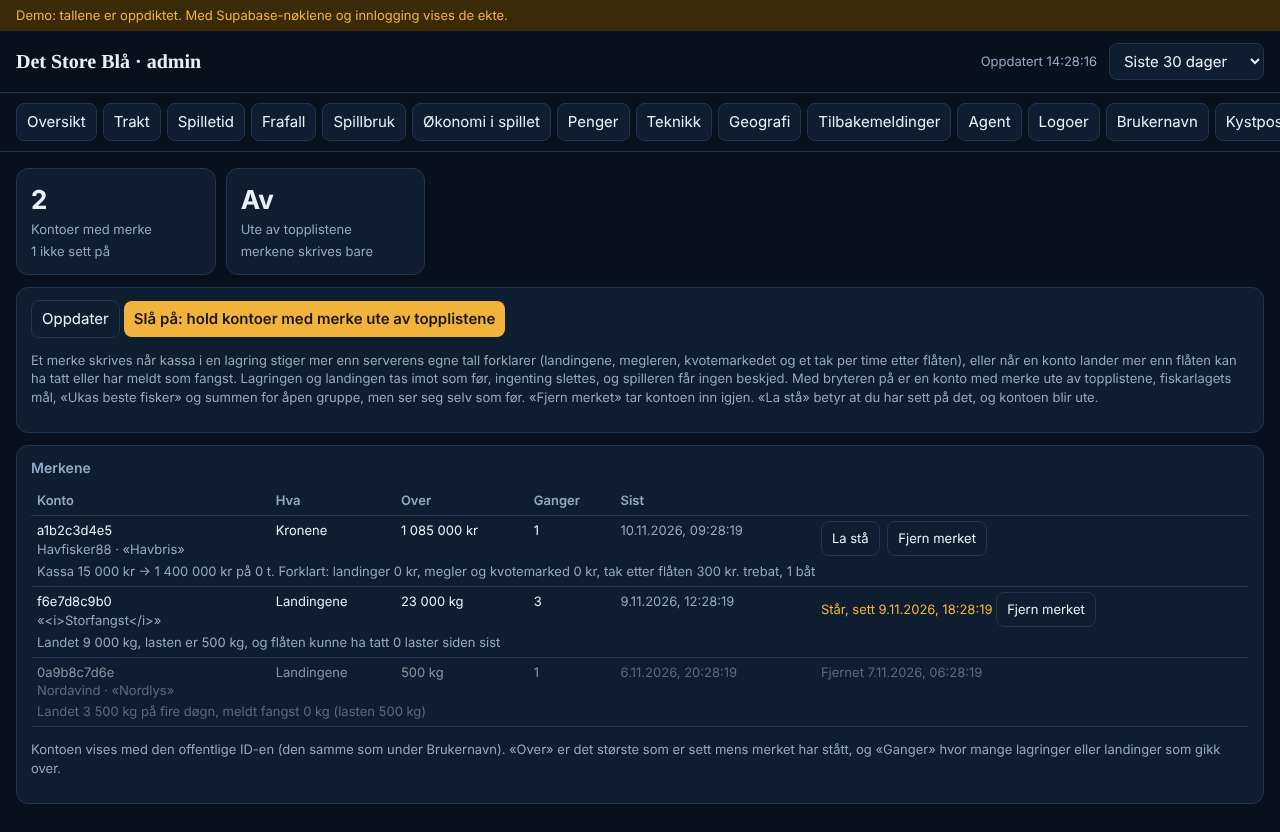
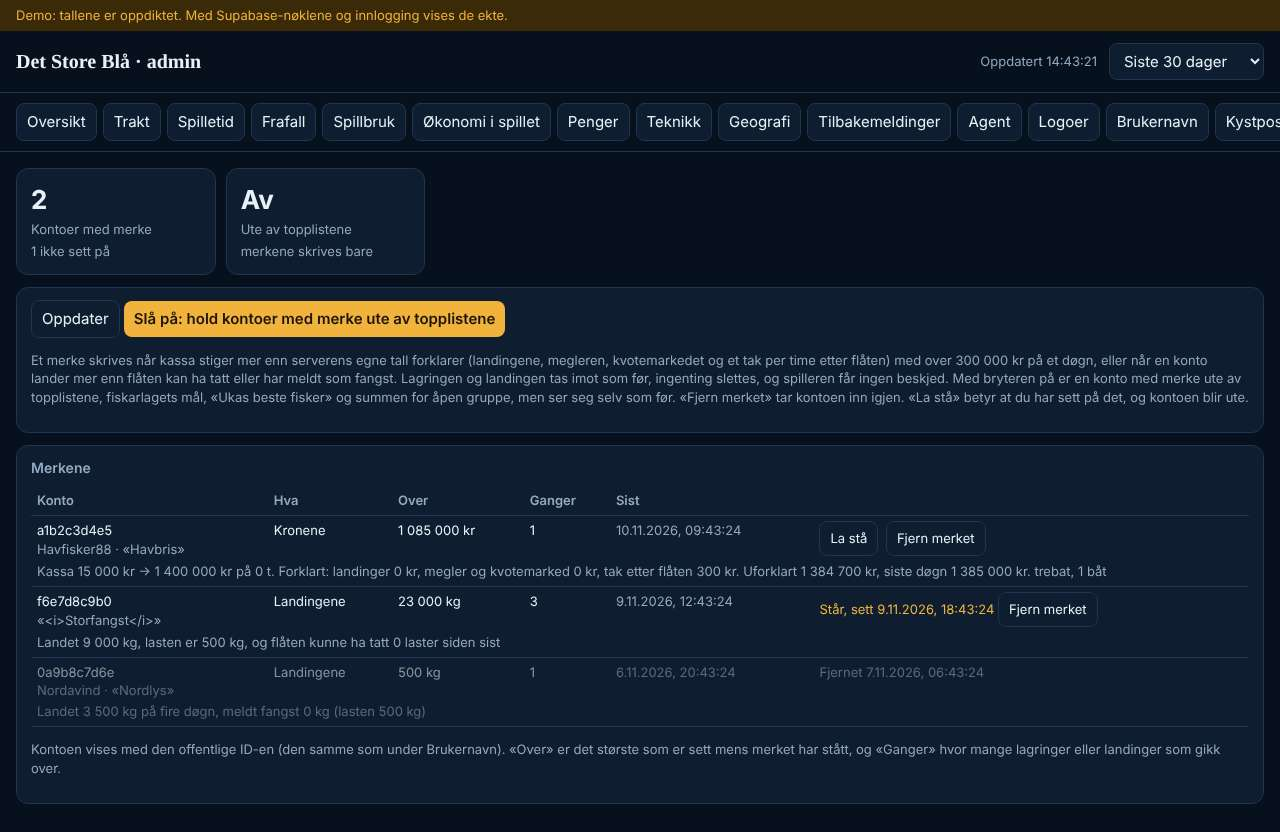
HS5: rettet etter gjennomgangen av koden (/code-review, nivå medium)
- Slakken på 300 000 kr er per døgn (cheat_cash, lekker 300 000 kr i døgnet), ikke per
  lagring, så den ikke kan brukes om igjen; kontoens første lagring sjekkes (mot 15 000 kr);
  en lagring uten kasse skjuler ikke økningen; kassa leses trygt (cheat_kr).
- Salgsfradraget bare når flåten har en båt mindre, ikke når båttypen bare byttes.
- Sjekken mot meldt fangst teller ikke artene spillet aldri melder fangst for
  (blåkveite, krabbe, snøkrabbe: cheat_sp.nocatch), og ikke det som ble landet før et
  merke sist ble fjernet; «Fjern merket» nullstiller bøtta eller de uforklarte kronene.
- En gjests åpne merker følger kontoen (trigger på players, ett om gangen), også et
  merke for kronene uten landing.
- Ukas push til en merket konto sier det kontoens egne lister sier (push_week_best).
- Topplistene leser bryteren én gang per kall; admin-lista har de åpne merkene først.
Ikke rettet: flåteverdien er fortsatt spillets ord (står i planen og backloggen).

sqltest 158 OK (én ny sjekk, og fire utvidet); de nye sett røde mot migreringen før
rettingen (4 FEIL). juksetabell 4 OK. admintest 10 OK. Målt på nytt mot databasen:
største uforklarte økning per døgn 41 048 kr (grensen 300 000).

Claude-Session: https://claude.ai/code/session_013BxXiDX5oLo5kXeQPREquf

diff --git a/src/admin/index.html b/src/admin/index.html
@@ -425,13 +425,13 @@ VIEW.navn = () => {
 let JK = null;
 function jkDemo(){ const t = h => new Date(Date.now() - h * 36e5).toISOString();
   return {on:false, open:2, rows:[
-    {id:3, who:'a1b2c3d4e5', name:'Havfisker88', boat:'Havbris', guest:false, kind:'cash', over:1085000, n:1, at:t(5), last:t(5), cleared:null, kept:null, data:{cash0:15000, cash1:1400000, hours:0.02, land:0, ledger:0, cap:300, sale:0, equity:0, type0:'trebat', type1:'trebat', fleet0:1, fleet1:1}},
+    {id:3, who:'a1b2c3d4e5', name:'Havfisker88', boat:'Havbris', guest:false, kind:'cash', over:1085000, n:1, at:t(5), last:t(5), cleared:null, kept:null, data:{cash0:15000, cash1:1400000, hours:0.02, land:0, ledger:0, cap:300, sale:0, equity:0, unexplained:1384700, day:1385000, first:false, type0:'trebat', type1:'trebat', fleet0:1, fleet1:1}},
     {id:2, who:'f6e7d8c9b0', name:'', boat:'<i>Storfangst</i>', guest:false, kind:'land', over:23000, n:3, at:t(30), last:t(26), cleared:null, kept:t(20), data:{why:'fleet', kg:9000, hold:500, had:0}},
     {id:1, who:'0a9b8c7d6e', name:'Nordavind', boat:'Nordlys', guest:false, kind:'land', over:500, n:1, at:t(90), last:t(90), cleared:t(80), kept:null, data:{why:'catch', landed4d:3500, caught4d:0, hold:500}}]}; }
 async function jkLoad(){ await null; try { JK = DEMO ? (JK || jkDemo()) : await rpc('admin_cheat_list', {lim:300}); } catch (e){ JK = {err:e.message}; } if (TAB === 'juks') render(); }
 function jkWhy(r){ const d = r.data || {}, kr = v => nf(+v || 0, 0) + ' kr', kg = v => nf(+v || 0, 0) + ' kg';
   if (r.kind === 'cash') return 'Kassa ' + kr(d.cash0) + ' → ' + kr(d.cash1) + ' på ' + nf(+d.hours || 0, 1) + ' t. Forklart: landinger ' + kr(d.land) + ', megler og kvotemarked ' + kr(d.ledger) + ', tak etter flåten ' + kr(d.cap) +
-    (+d.sale ? ', solgt båt ' + kr(d.sale) : '') + (+d.equity ? '. Større flåte teller ' + kr(d.equity) : '') + '. ' + esc(d.type0 || '') + (d.type1 !== d.type0 ? ' → ' + esc(d.type1 || '') : '') + ', ' + (+d.fleet1 || 1) + ' båt' + ((+d.fleet1 || 1) > 1 ? 'er' : '');
+    (+d.sale ? ', solgt båt ' + kr(d.sale) : '') + (+d.equity ? '. Større flåte teller ' + kr(d.equity) : '') + (d.unexplained != null ? '. Uforklart ' + kr(d.unexplained) + ', siste døgn ' + kr(d.day) : '') + (d.first ? '. Kontoens første lagring' : '') + '. ' + esc(d.type0 || '') + (d.type1 !== d.type0 ? ' → ' + esc(d.type1 || '') : '') + ', ' + (+d.fleet1 || 1) + ' båt' + ((+d.fleet1 || 1) > 1 ? 'er' : '');
   if (d.why === 'catch') return 'Landet ' + kg(d.landed4d) + ' på fire døgn, meldt fangst ' + kg(d.caught4d) + ' (lasten ' + kg(d.hold) + ')';
   return 'Landet ' + kg(d.kg) + ', lasten er ' + kg(d.hold) + ', og flåten kunne ha tatt ' + nf(+d.had || 0, 1) + ' laster siden sist'; }
 VIEW.juks = () => {
@@ -441,7 +441,7 @@ VIEW.juks = () => {
   return '<div class="grid">' + kpi('Kontoer med merke', nf(JK.open == null ? new Set(open.map(r => r.who)).size : JK.open, 0), nf(open.filter(r => !r.kept).length, 0) + ' ikke sett på') +
       kpi('Ute av topplistene', JK.on ? 'På' : 'Av', JK.on ? 'en konto med merke er ute' : 'merkene skrives bare') + '</div>' +
     '<div class="card"><button id="jkR">Oppdater</button> <button id="jkSw"' + (JK.on ? '' : ' class="p"') + '>' + (JK.on ? 'Slå av: la kontoer med merke stå i topplistene' : 'Slå på: hold kontoer med merke ute av topplistene') + '</button>' +
-      '<p class="note">Et merke skrives når kassa i en lagring stiger mer enn serverens egne tall forklarer (landingene, megleren, kvotemarkedet og et tak per time etter flåten), eller når en konto lander mer enn flåten kan ha tatt eller har meldt som fangst. Lagringen og landingen tas imot som før, ingenting slettes, og spilleren får ingen beskjed. Med bryteren på er en konto med merke ute av topplistene, fiskarlagets mål, «Ukas beste fisker» og summen for åpen gruppe, men ser seg selv som før. «Fjern merket» tar kontoen inn igjen. «La stå» betyr at du har sett på det, og kontoen blir ute.</p></div>' +
+      '<p class="note">Et merke skrives når kassa stiger mer enn serverens egne tall forklarer (landingene, megleren, kvotemarkedet og et tak per time etter flåten) med over 300 000 kr på et døgn, eller når en konto lander mer enn flåten kan ha tatt eller har meldt som fangst. Lagringen og landingen tas imot som før, ingenting slettes, og spilleren får ingen beskjed. Med bryteren på er en konto med merke ute av topplistene, fiskarlagets mål, «Ukas beste fisker» og summen for åpen gruppe, men ser seg selv som før. «Fjern merket» tar kontoen inn igjen. «La stå» betyr at du har sett på det, og kontoen blir ute.</p></div>' +
     (rows.length ? card('Merkene', '<table><tr><th>Konto</th><th>Hva</th><th>Over</th><th>Ganger</th><th>Sist</th><th></th></tr>' + rows.map(r => '<tr class="jkrow' + (r.cleared ? ' jkoff' : '') + '"><td>' + esc(r.who) +
         (r.name || r.boat ? '<br><span class="note">' + esc(r.name || '') + (r.name && r.boat ? ' · ' : '') + (r.boat ? '«' + esc(r.boat) + '»' : '') + (r.guest ? ' (gjest)' : '') + '</span>' : '') + '</td><td>' + (r.kind === 'cash' ? 'Kronene' : 'Landingene') + '</td><td>' +
         nf(+r.over || 0, 0) + (r.kind === 'cash' ? ' kr' : ' kg') + '</td><td>' + nf(+r.n || 1, 0) + '</td><td class="note">' + when(r.last) + '</td><td>' +

diff --git a/tests/sqltest.py b/tests/sqltest.py
@@ -1190,7 +1190,7 @@ def main():
         # kind, and with the switch on the marked account out of every leaderboard, the fiskarlag's goal, the week's push and the open
         # group's sum, while it still sees itself; «Fjern merket» takes it in again; only the admin with aal2 reads and clears
         import hashlib
-        HS = {}; H = {k: {'sub': 'user_01HS' + k, 'role': 'authenticated'} for k in ('1', '2', '3', '4', '5', '6', '7')}
+        HS = {}; H = {k: {'sub': 'user_01HS' + k, 'role': 'authenticated'} for k in ('1', '2', '3', '4', '5', '6', '7', '8')}
         hid = lambda k: 'user_01HS' + k
         for k in H: sql("select public.tm_hello('{}')", H[k], 'authenticated')
         hsave = lambda k, cash, typ='trebat', fleet=1: json.loads(sql("select public.save_put4('x', now(), 100, null, true, '{\"cash\":%d,\"type\":\"%s\",\"fleet\":%d}', 'devH', 'H', false)" % (cash, typ, fleet), H[k], 'authenticated'))
@@ -1223,9 +1223,22 @@ def main():
         hland('6', 3010, 'hs5ekte', 100, 'Fangst6', 'none', '', ''); hland('7', 3010, 'hs5ekte', 100, 'Fangst7', 'none', '', '')
         HS['catch'] = flags('6'); HS['catchOk'] = flags('7')
         # a guest's mark goes with the landings to the account
-        sql("insert into public.players (id) values ('hs5_g'), ('hs5_acc') on conflict do nothing; insert into public.landings (player_id, gh, y, port, sp, acc, kg, kgq) values ('hs5_g', 1, 2027, 'x', 'torsk', 'none', 1, 0); select public.cheat_flag('hs5_g', 'land', 5, '{}')")
-        sql("update public.landings set player_id = 'hs5_acc' where player_id = 'hs5_g'"); HS['follow'] = sql("select string_agg(player_id, ',') from public.cheat_flags where player_id like 'hs5_%'")
-        sql("delete from public.players where id in ('hs5_g', 'hs5_acc')")
+        # a guest's marks go to the account that takes the guest over (guest_merge deletes the guest's row as the account), also a mark
+        # for the kroner with no landing, and one the account has already does not stop the other
+        sql("insert into public.players (id, guest) values ('hs5_g', true), ('hs5_acc', false) on conflict do nothing; select public.cheat_flag('hs5_g', 'land', 5, '{}'); select public.cheat_flag('hs5_g', 'cash', 7, '{}'); select public.cheat_flag('hs5_acc', 'land', 1, '{}')")
+        sql("delete from public.players where id = 'hs5_g'", {'sub': 'hs5_acc', 'role': 'authenticated'}); HS['follow'] = sql("select string_agg(kind || ':' || over, ',' order by kind) from public.cheat_flags where player_id = 'hs5_acc'")
+        sql("delete from public.players where id = 'hs5_acc'")
+        # the slack is per day, not per save: three saves of 250 000 kr more each are marked at the second; an account's first save
+        # with a thousand million is marked; a save without a cash between two does not hide the rise
+        hsave('8', 15000); hsave('8', 265000); HS['step1'] = flags('8'); hsave('8', 515000); hsave('8', 765000); HS['step'] = flags('8')
+        sql("select public.tm_hello('{}')", {'sub': 'user_01HS9', 'role': 'authenticated'}, 'authenticated'); H['9'] = {'sub': 'user_01HS9', 'role': 'authenticated'}
+        hsave('9', 1000000000); HS['first'] = [f['kind'] for f in flags('9')]
+        hsave('5', 15000); sql("select public.save_put4('x', now(), 100, null, true, '{\"day\":5}', 'devH', 'H', false)", H['5'], 'authenticated'); hsave('5', 2000000); HS['nocash'] = [f['kind'] for f in flags('5')]
+        sql("delete from public.cheat_flags where player_id = '%s'" % hid('5'))
+        # crab is never reported as catch, so crab landed is not held against the catch
+        for i in range(7): sql("""select public.land_put(%d, 2027, 'hs5ekte', 'none', '[{"sp":"krabbe","kg":500,"kgq":0}]', 'Krabbe')""" % (3000 + i), H['8'], 'authenticated')
+        sql("update public.landings set at = now() - interval '2 hours' where player_id = '%s'; update public.cheat_bucket set at = now() - interval '2 hours' where player_id = '%s'" % (hid('8'), hid('8')))
+        sql("""select public.land_put(3010, 2027, 'hs5ekte', 'none', '[{"sp":"krabbe","kg":100,"kgq":0}]', 'Krabbe')""", H['8'], 'authenticated'); HS['crab'] = flags('8', 'land')
         # the switch off: the mark is only written, the marked account is in every list
         sql("select public.lag_join('hs5lag')", H['3'], 'authenticated'); sql("select public.lag_join('hs5lag')", H['4'], 'authenticated')
         sql("select public.push_sub('https://fcm.googleapis.com/fcm/send/hs5', 'BPkeyH', 'authkeyH', 'no')", H['5'], 'authenticated')
@@ -1238,7 +1251,7 @@ def main():
             pw = sql("select coalesce(string_agg(body, ' | '), '') from public.push_queue where tag = 'top-week' and player_id = '%s'" % hid(who))
             return {'top': 'JuksA' in [r['boat'] for r in wt['rows']], 'topMine': (wt.get('mine') or {}).get('kg'), 'bygd': 'hs5juks' in [r['port'] for r in bt.get('rows') or []],
                     'bygdMine': (bt.get('mine') or {}).get('port'), 'ev': 'JuksA' in [r['boat'] for r in et['rows']], 'evMine': (et.get('mine') or {}).get('kg'), 'evKg': et['kg'],
-                    'open': ag['open'], 'push': 'JuksA' in pw, 'pushMe': 'Du leverte 27,0 t' in pw}
+                    'open': ag['open'], 'push': 'JuksA' in pw, 'pushMe': 'Du leverte 27,0 t, plass 1' in pw and 'er «JuksA»' in pw}
         def lag(who):
             g = json.loads(sql("select public.lag_get(20)", H[who], 'authenticated')); return {'kg': g['kg'], 'hit': g['hit'], 'm': sorted(m['kg'] for m in g['members'])}
         HS['off'] = lists('5'); HS['cfgPl'] = sql("select public.admin_cfg_set('cheat_on', 'true')", H['1'], 'authenticated', expect_err=True)[0]
@@ -1259,6 +1272,7 @@ def main():
         HS['keep'] = sql("select public.admin_cheat_keep(%d)" % mine[0]['id'], AD2, 'authenticated') if mine else None; HS['kept'] = lists('5')['top']
         HS['clear'] = sql("select public.admin_cheat_clear(%d)" % mine[0]['id'], AD2, 'authenticated') if mine else None
         HS['cleared'] = lists('5'); HS['lagCleared'] = lag('4')
+        hland('3', 3373, 'hs5juks', 10, 'JuksA', 'none', '', ''); HS['again'] = [f['open'] for f in flags('3')]
         sql("select public.admin_cfg_set('cheat_on', 'false')", AD2, 'authenticated')
         w3 = 27000; ex = {'top': False, 'bygd': False, 'ev': False, 'push': False}
         print(ok(HS['cashPut'] is True and HS['cashKept'] == '1400000' and [(f['kind'], f['open']) for f in HS['cash']] == [('cash', True)] and 1000000 <= HS['cash'][0]['over'] <= 1100000),
@@ -1267,8 +1281,10 @@ def main():
         print(ok([(f['kind'], f['why']) for f in HS['land']] == [('land', 'fleet')] and HS['land'][0]['n'] == 3 and HS['landRows'] == '3/27000'),
               'HS5: landings above what the fleet can have taken get one mark, and the landings are taken', {k: HS[k] for k in ('land', 'landRows')})
         print(ok(HS['landAway'] == []), 'HS5: a landing after days away that the fleet could have taken gets no mark', HS['landAway'])
-        print(ok([(f['kind'], f['why'], f['over']) for f in HS['catch']] == [('land', 'catch', 500)] and HS['catchOk'] == [] and HS['follow'] == 'hs5_acc'),
-              "HS5: landings above the reported catch get a mark, with the catch reported they do not; a guest's mark follows the landings to the account", {k: HS[k] for k in ('catch', 'catchOk', 'follow')})
+        print(ok([(f['kind'], f['why'], f['over']) for f in HS['catch']] == [('land', 'catch', 500)] and HS['catchOk'] == [] and HS['crab'] == [] and HS['follow'] == 'cash:7,land:1'),
+              "HS5: landings above the reported catch get a mark, with the catch reported they do not; a guest's mark follows the landings to the account", {k: HS[k] for k in ('catch', 'catchOk', 'crab', 'follow')})
+        print(ok(HS['step1'] == [] and [f['kind'] for f in HS['step']] == ['cash'] and 449000 <= HS['step'][0]['over'] <= 450000 and HS['step'][0]['n'] == 2 and HS['first'] == ['cash'] and HS['nocash'] == ['cash']),
+              "HS5: the slack is per day and not per save, an account's first save is checked, and a save without a cash between two does not hide the rise", {k: HS[k] for k in ('step1', 'step', 'first', 'nocash')})
         print(ok(all(HS['off'][k] for k in ex) and not any(HS['on'][k] for k in ex) and HS['off']['open'] - HS['on']['open'] >= w3 and HS['off']['evKg'] - HS['on']['evKg'] == w3
                  and HS['cfgPl'] and HS['cfgBad']),
               'HS5: with the switch on a marked account is out of world_top, bygde_top, ev_top, the week\'s push and the open group\'s sum; off, it is in (only the admin turns it)', {k: HS[k] for k in ('off', 'on', 'cfgPl', 'cfgBad')})
@@ -1276,8 +1292,8 @@ def main():
                  and HS['lagOn'] == {'kg': 1000, 'hit': False, 'm': [0, 1000]} and HS['lagSelf'] == {'kg': 28000, 'hit': False, 'm': [1000, 27000]} and HS['lagHit'] == '0'),
               "HS5: the marked account sees itself as before, and the fiskarlag's goal is not reached on its kilos", {k: HS[k] for k in ('onSelf', 'lagOn', 'lagSelf', 'lagHit')})
         print(ok(HS['adm']['on'] is True and HS['adm']['n'] == 1 and HS['adm']['kind'] == ['land'] and not HS['adm']['raw'] and all(HS['admPl']) and HS['admAal1'] and HS['admAnon']
-                 and HS['keep'] == 't' and HS['kept'] is False and HS['clear'] == 't' and all(HS['cleared'][k] for k in ex) and HS['lagCleared'] == {'kg': 28000, 'hit': True, 'm': [1000, 27000]}),
-              'HS5: the admin (aal2) sees the marks by the public id, «La stå» keeps the account out, «Fjern merket» takes it in again; a player, aal1 and anon get nothing', {k: HS[k] for k in ('adm', 'admPl', 'admAal1', 'admAnon', 'keep', 'kept', 'clear', 'cleared', 'lagCleared')})
+                 and HS['keep'] == 't' and HS['kept'] is False and HS['clear'] == 't' and all(HS['cleared'][k] for k in ex) and HS['again'] == [False] and HS['lagCleared'] == {'kg': 28000, 'hit': True, 'm': [1000, 27000]}),
+              'HS5: the admin (aal2) sees the marks by the public id, «La stå» keeps the account out, «Fjern merket» takes it in again; a player, aal1 and anon get nothing', {k: HS[k] for k in ('adm', 'admPl', 'admAal1', 'admAnon', 'keep', 'kept', 'clear', 'cleared', 'again', 'lagCleared')})
         # the load of 5 000 players (plan 5b; KYST_LAST=5000): landings and catches for that many players, then what world_get costs
         NL = int(os.environ.get('KYST_LAST') or 0)
         if NL:

diff --git a/docs/systemer/skyen-og-felles-verden.md b/docs/systemer/skyen-og-felles-verden.md
@@ -183,22 +183,24 @@ Jonas 10.11.2026: «Spillere skal ikke kunne redigere sin egen lagring og gi seg
 
 - **Ingenting avvises og ingenting slettes.** Lagringen og landingen tas imot som før, og spilleren får ingen beskjed. Sjekkene ligger i egne blokker som aldri stopper en lagring eller en landing.
 - **Merket** (`cheat_flags`): ett åpent merke per konto og slag (`cash` eller `land`), med det største som er sett over grensen (`over`, kr eller kg), antallet (`n`) og tallene bak (`data`). «Fjern merket» setter `cleared_at`, og kontoen er inne igjen. «La stå» setter `kept_at` (sett på, kontoen blir ute).
-- **Kronene** sjekkes ved hver lagring av en trigger på `saves` (`saves_cheat_check`), så alle fire lagringsfunksjonene (`save_put` til `save_put4`) dekkes. Økningen i `summary.cash` regnes fra den høyeste kassa kontoen har hatt i en lagring (den forrige og de bevarte i `save_hist`), så en lagring tatt tilbake under Innstillinger aldri er en økning. Den kan ikke være større enn:
-  - 300 000 kr
+- **Kronene** sjekkes ved hver lagring av en trigger på `saves` (`saves_cheat_check`), så alle fire lagringsfunksjonene (`save_put` til `save_put4`) dekkes, også kontoens første lagring (da mot 15 000 kr, som i et nytt spill). Økningen i `summary.cash` regnes fra den høyeste kassa kontoen har hatt i en lagring (den forrige og de bevarte i `save_hist`), så en lagring tatt tilbake under Innstillinger aldri er en økning. En lagring uten kasse skjuler ikke økningen: kassa før den huskes (`cheat_cash.last`). Økningen holdes mot det serveren kan forklare:
   - landingene siden forrige lagring, til det dobbelte av den høyeste prisen arten kan få (`cheat_sp`)
   - utbetalingene fra megleren og kvotemarkedet (`broker_ledger`, de som ikke er hentet ennå, og de som er hentet siden forrige lagring)
   - 30 kr per kg last og ekte time (én last i timen), etter båttypen og antall båter i lagringen, høyst 21 døgn
-  - flåtens verdi når en båt er borte (solgt eller byttet inn)
+  - flåtens verdi når flåten har en båt mindre (solgt)
+  - Det som står igjen uforklart, legges sammen per konto (`cheat_cash.kr`) og lekker bort med 300 000 kr i døgnet. Over 300 000 kr får kontoen merke. Slakken er altså per døgn, ikke per lagring, så den kan ikke brukes om igjen ved å lagre mange ganger.
   - En flåte som har vokst, teller 5 % av prisen som penger som må ha vært der (det minste en kjøper selv legger inn, `core/03-simulation.js`), så en båt kjøpt med innskrevne penger mellom to lagringer også vises.
   - Spillets adminkonto (`players.game_admin`) har penger fra Admin-appen og sjekkes ikke for kroner.
 - **Landingene** sjekkes av `land_put` før radene legges inn (`cheat_land`):
   - **Flåten:** en bøtte i laster (`cheat_bucket`). Én last er den største lasten serveren kjenner for kontoen (`presence.vtype` og båttypen i lagringen, aldri under 500 kg) ganget med antall båter i lagringen; med flere båter også 8,5 kg per 1 000 kr flåteverdi når det er mer. Bøtta har 8 laster ved start og fylles med én last per ekte time (seks spilltimer), høyst 21 døgn. Da går tida som tas igjen etter dager borte, og havbåtene, gjennom. En landing over det som er i bøtta, får merke (`why: fleet`).
-  - **Fangsten:** landingene de siste fire døgnene (ikke den siste timen, fordi fangsten for en landing sendes rett etter den) kan ikke være mer enn tre ganger fangsten kontoen har meldt med `catch_put` i de døgnene, pluss seks laster (`why: catch`).
+  - **Fangsten:** landingene de siste fire døgnene (ikke den siste timen, fordi fangsten for en landing sendes rett etter den; ikke blåkveite, krabbe og snøkrabbe, som spillet aldri melder fangst for, `cheat_sp.nocatch`; ikke det som ble landet før et merke sist ble fjernet) kan ikke være mer enn tre ganger fangsten kontoen har meldt med `catch_put` i de døgnene, pluss seks laster (`why: catch`).
 - **Bryteren** `cheat_on` i `world_cfg` (av fra start). Av: merket skrives bare. På: en konto med åpent merke er ute av `world_top`, `bygde_top`, `ev_top`, fiskarlagets mål (`lag_get`: kiloene teller ikke i målet eller i lista de andre ser, og målet nås bare på de andres kilo), «Ukas beste fisker» (`push_week`) og summen for åpen gruppe og gruppenes fangst (`world_agg_get`). Kontoen ser seg selv som før i alle listene og i sin egen ukes-push.
-- **En gjests merke** følger landingene til kontoen ved registrering (triggeren `landings_cheat_follow`).
+- **«Fjern merket»** nullstiller også kontoens bøtte eller uforklarte kroner, så de samme landingene eller de samme kronene ikke skriver merket på nytt.
+- **Ukas push til en merket konto** sier det kontoens egne lister sier (`push_week_best` med kontoen selv regnet med), så meldingen ikke røper noe.
+- **En gjests åpne merker** følger med til kontoen ved registrering (triggeren `players_cheat_follow`: `guest_merge` sletter gjestens rad som kontoen).
 - **Admin:** fanen «Juks» (`admin_cheat_list`, `admin_cheat_clear`, `admin_cheat_keep`, bryteren med `admin_cfg_set`), bare `is_admin()` med aal2. Spillere har ingen rettigheter til tabellene eller funksjonene.
 - **Tabellene `cheat_vt` og `cheat_sp`** er kopier av lasten og prisen per båttype i `VESSELS` og den høyeste prisen per art i `SPECIES`. En type tabellen ikke har, teller som 500 kg. Enhetstesten `tests/unit/juksetabell.test.mjs` blir rød når en båt eller en pris i spillet ikke stemmer med den siste migreringen som fyller tabellene; da trengs en ny migrering med de nye radene.
-- **Det sjekken ikke gjør:** båttypen og antall båter er spillets ord (lagringen, `pos_put`, `tm_hello`), så den fanger den som skriver inn en million eller lander titalls tonn fra en trebåt, ikke den som jukser litt. Prisene i mottakene (`world_get`, `mkt`) holder ikke merkede kontoer ute.
+- **Det sjekken ikke gjør:** båttypen og antall båter er spillets ord (lagringen, `pos_put`, `tm_hello`), så den fanger den som skriver inn en million eller lander titalls tonn fra en trebåt, ikke den som jukser litt (under 300 000 kr uforklart i døgnet, eller under én last i timen med falsk fangst meldt). Et salg av en båt som ikke er den spilleren står i, kan gi et feil merke når flåteverdien ikke er meldt (uten samtykke til statistikk); da fjernes merket i admin. Prisene i mottakene (`world_get`, `mkt`) holder ikke merkede kontoer ute.
 - **Den gamle varslingen** (`saves_cash_check`, `cash_flags`, «Mistenkelige pengehopp» under Økonomi i admin) står som før.
 
 ## 4.24 Fartstid og «Mens du var borte» (07.10.2026)

diff --git a/docs/planer/haill-saldo.md b/docs/planer/haill-saldo.md
@@ -126,13 +126,16 @@ Migreringen `supabase/migrations/20261110150000_cheat_flags.sql`, fanen «Juks»
 - «Flåtens verdi» står ikke i lagringens `summary` (bare kassa, båttypen og antall båter), og lån og innbytte gjør at verdien ikke kan regnes rett. Sjekken regner derfor på kassa, og lar en flåte som har vokst telle 5 % av prisen.
 - Økningen regnes fra den høyeste kassa i de bevarte lagringene, så en lagring tatt tilbake ikke gir merke.
 - «Mottakets høyeste pris» er artens høyeste pris ganget med to. Serveren har ingen pris per mottak.
+- Slakken på 300 000 kr er per døgn og ikke per lagring (funnet i gjennomgangen av koden: ellers kunne den brukes om igjen for hver lagring), og kontoens første lagring sjekkes også.
+- Sjekken mot meldt fangst teller ikke blåkveite, krabbe og snøkrabbe, som spillet aldri melder fangst for (`takeStock`).
 - Spillets adminkonto sjekkes ikke for kroner (den har penger fra Admin-appen: ti hopp på 0,4 til 88,7 millioner i `cash_flags`).
 
 **Målingen (punkt 3), lesende spørringer mot databasen 10.11.2026:** 38 lagringer og 100 bevarte lagringer; 803 landingsrader i 120 kall fra 10 kontoer (5 registrerte, 5 gjester); 266 fangstrader fra de siste fire døgnene (3 kontoer). Alle kontoene har én båt (trebåt, snekke eller sjark).
 
 | Hva | Største ekte | Grensen | Merker |
 |---|---|---|---|
-| Økning i kassa mellom to bevarte lagringer (90 par, spillere) | 163 959 kr på 4,3 timer (sjark); 155 343 kr over den høyeste kassa før | 300 000 kr + landinger, megler, tak per time | 0 |
+| Økning i kassa mellom to bevarte lagringer (90 par, spillere) | 163 959 kr på 4,3 timer (sjark); 155 343 kr over den høyeste kassa før | forklart av landinger, megler og tak per time; resten under | 0 |
+| Uforklart økning per døgn (det som er igjen etter landingene og taket per time) | 41 048 kr (3 av 90 par hadde noe uforklart) | 300 000 kr per døgn | 0 |
 | Raskeste økning | 43 800 kr på 11 minutter (ny spiller, trebåt); 55 787 kr på 24 minutter (første tur, 500 kg) | som over | 0 |
 | Én landing mot lasten | 1,08 laster (snekke 1 080 kg); sjark 6 500 kg og trebåt 500 kg er 1,0 | 8 laster i bøtta ved start | 0 |
 | Én landing, spillets adminkonto | 3,97 laster (trebåt 1 985 kg) | 8 laster | 0 |
@@ -146,6 +149,8 @@ Migreringen `supabase/migrations/20261110150000_cheat_flags.sql`, fanen «Juks»
 - Ingen i databasen har flere båter, driftsplan over flere døgn med mange landinger eller havbåt. Grensene for dem (én last per ekte time per båt, 21 døgn) er regnet, ikke målt.
 - Bøtta er romslig: en trebåt kan lande 12 t i døgnet uten merke, mot 5 t som det meste en ekte spiller har gjort. Sjekken mot meldt fangst strammer det til seks laster per fire døgn for den som ikke også melder falsk fangst.
 - Båttypen og antall båter er spillets ord.
+- Et salg av en båt som ikke er den spilleren står i, kan gi et feil merke når flåteverdien ikke er meldt (spillere uten samtykke til statistikk). Ingen slike salg finnes i dataene.
+- Kontoens første lagring holdes mot 15 000 kr. En som har spilt lenge uten sky og så får en konto, kan få et feil merke.
 
 ## 4. Valgene
 

diff --git a/docs/planer/sikkerhet-skyen.md b/docs/planer/sikkerhet-skyen.md
@@ -87,7 +87,7 @@ Alvorlighet: **høy** = én spiller kan ødelegge for alle eller ta penger; **mi
 - **Retting på sikt:** haill som en saldo i databasen (innløst med en funksjon, slik `grants` alt er for kjøp), velkomstgaven gitt én gang av `guest_merge` på serveren. Admin-dashbordets økonomitall skal leses som det klienten melder.
 - **Status 10.11.2026:** planen er `docs/planer/haill-saldo.md` (steg 49). Jonas valgte rekkefølgen 10.11.2026 (L1 V7 A): før lansering velkomstgaven fra serveren (HS1, steg 95, klar; gitt fra `tm_hello` i stedet for `guest_merge`, så også en konto uten gjest får den) og kjøpt haill talt fra `grants` (HS2, steg 96); saldoen og pengene etter lansering (HS3–HS5). Valgene står som valg 29 i køen.
 
-- **Status 10.11.2026, pengene (HS5, steg 99):** hver lagring sjekkes av en trigger på `saves` (alle fire `save_put`-funksjonene): kassa kan ikke stige mer enn serverens egne tall forklarer (landingene, megleren og kvotemarkedet, et tak per ekte time etter flåten, og 300 000 kr). Over det får kontoen et merke i `cheat_flags`; lagringen tas imot. Admin har fanen «Juks», og økonomitallene der er merket «meldt av spillet». `saves_cash_check` og `cash_flags` står som før. Haillen og det som er kjøpt, er HS1–HS4.
+- **Status 10.11.2026, pengene (HS5, steg 99):** hver lagring sjekkes av en trigger på `saves` (alle fire `save_put`-funksjonene): kassa kan ikke stige mer enn serverens egne tall forklarer (landingene, megleren og kvotemarkedet, et tak per ekte time etter flåten), med 300 000 kr uforklart per døgn som slakk. Over det får kontoen et merke i `cheat_flags`; lagringen tas imot. Admin har fanen «Juks», og økonomitallene der er merket «meldt av spillet». `saves_cash_check` og `cash_flags` står som før. Haillen og det som er kjøpt, er HS1–HS4.
 
 ### 7. MIDDELS: innloggingene ligger i `localStorage`
 

diff --git a/docs/BACKLOG.md b/docs/BACKLOG.md
@@ -6,7 +6,8 @@
 
 - **HS5, kronene og landingene sjekket på serveren (10.11.2026, Jonas' økt, grenen `claude/hs5-kronene-landingene-niqy2q`; `docs/planer/haill-saldo.md` HS5, `docs/systemer/skyen-og-felles-verden.md`):** migreringen `20261110150000_cheat_flags.sql`, fanen «Juks» i admin. Står igjen:
   - **Bryteren `cheat_on` er av.** Jonas slår den på i admin → Juks når han har sett tallene i planen. Til da skrives merkene bare.
-  - **Grensene er målt mot lite:** 10 kontoer med landinger, alle med én båt (trebåt, snekke, sjark). Flere båter, driftsplan over mange døgn og havbåter er regnet, ikke målt. Se på merkene i admin de første ukene, og juster `cheat_land` (8 laster, én last i timen) og `saves_cheat_check` (300 000 kr, 30 kr per kg last og time) etter dem.
+  - **Grensene er målt mot lite:** 10 kontoer med landinger, alle med én båt (trebåt, snekke, sjark). Flere båter, driftsplan over mange døgn og havbåter er regnet, ikke målt. Se på merkene i admin de første ukene, og juster `cheat_land` (8 laster, én last i timen) og `saves_cheat_check` (300 000 kr uforklart per døgn, 30 kr per kg last og time) etter dem.
+  - **Feil merke som kan komme:** salg av en båt spilleren ikke står i når flåteverdien ikke er meldt (uten samtykke), og en første lagring med mye penger fra spill uten sky. Begge fjernes med «Fjern merket».
   - **Sjekken mot meldt fangst** er prøvd mot fire døgn og tre kontoer (`catches` slettes etter fire døgn).
   - **Romslig:** en trebåt kan lande 12 t i døgnet uten merke for flåten (ekte topp 5 t). Båttypen og antall båter er spillets ord.
   - **Prisene i mottakene** (`world_get`, `mkt`) holder ikke merkede kontoer ute.
